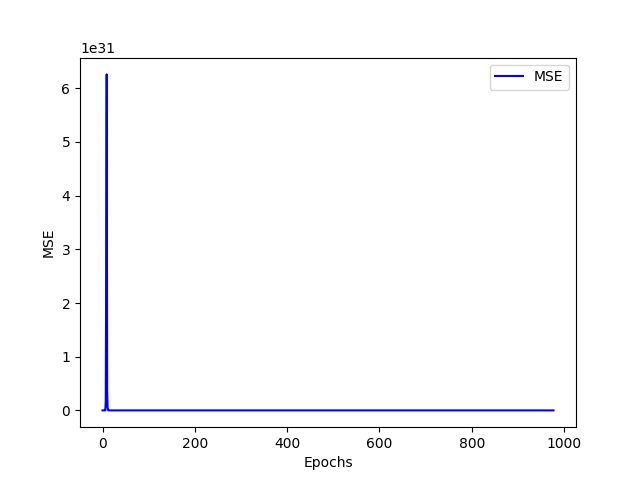
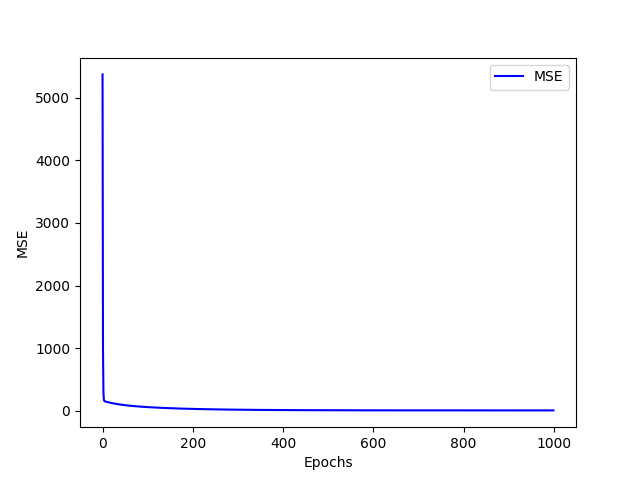
fix: modify formula

diff --git a/main.py b/main.py
@@ -5,7 +5,6 @@ import matplotlib.pyplot as plt
 
 # 整理資料需要的 class
 class DataLoader:
-
     def __init__(self, file_path):
         self.file_path = file_path; # 檔案位置
         self.data_list = []; # 存放資料的 list
@@ -36,19 +35,18 @@ class Regression:
         
         # 梯度下降法計算
         for time in range(max_times):
-            # 計算預測值
-            y_pred = np.dot(x, self.weights) + self.bias; 
+            y_pred = np.dot(self.weights, x.T) + self.bias; 
 
             # 計算均方誤差 (MSE)
-            mse = np.mean(np.square(y_pred-y)); 
+            mse = np.mean(np.square(y - y_pred)); 
             mse_history.append(mse); 
-
-            w = (1 / len(y)) * np.dot(x.T, (y_pred-y));   # 計算權重的梯度
-            self.weights -= learning_rate*w;   # 更新權重
+           
+            w = (1 / len(y)) * np.dot((y - y_pred), x);   # 計算權重的梯度
+            self.weights += learning_rate * w;   # 更新權重
 
             # 更新偏差
-            b = (1 / len(y)) * np.sum(y_pred-y);   # 計算偏差的梯度
-            self.bias -= learning_rate*b;   # 更新偏差
+            b = (1 / len(y)) * np.sum(y - y_pred);   # 計算偏差的梯度
+            self.bias += learning_rate * b;   # 更新偏差
 
             # 判斷終止條件
             if mse < mse_limit:
@@ -61,9 +59,8 @@ class Regression:
 
         return mse_history; 
 
-
     def predict(self, X):
-        return np.dot(X, self.weights)+self.bias; 
+        return np.dot(self.weights, X.T) + self.bias; 
 
 # 給 Lab1_traindata.csv 檔案資料
 data_loader = DataLoader("Lab1_traindata.csv"); 
@@ -73,7 +70,6 @@ random.seed(0)  # 設定亂數種子碼
 np.random.shuffle(data)  # 將輸入資料打亂
 x = data[:, :-1]  # x1, x2, x3
 y = data[:, -1]   # y
-
 
 # 訓練模型
 regression = Regression(); 
@@ -86,7 +82,6 @@ ya = regression.predict(xa)
 yb = regression.predict(xb)
 print(f"預測值 ya: {ya}")
 print(f"預測值 yb: {yb}")
-
 
 # 印出 output.png
 plt.plot(mse_history, label='MSE', color='blue'); 
